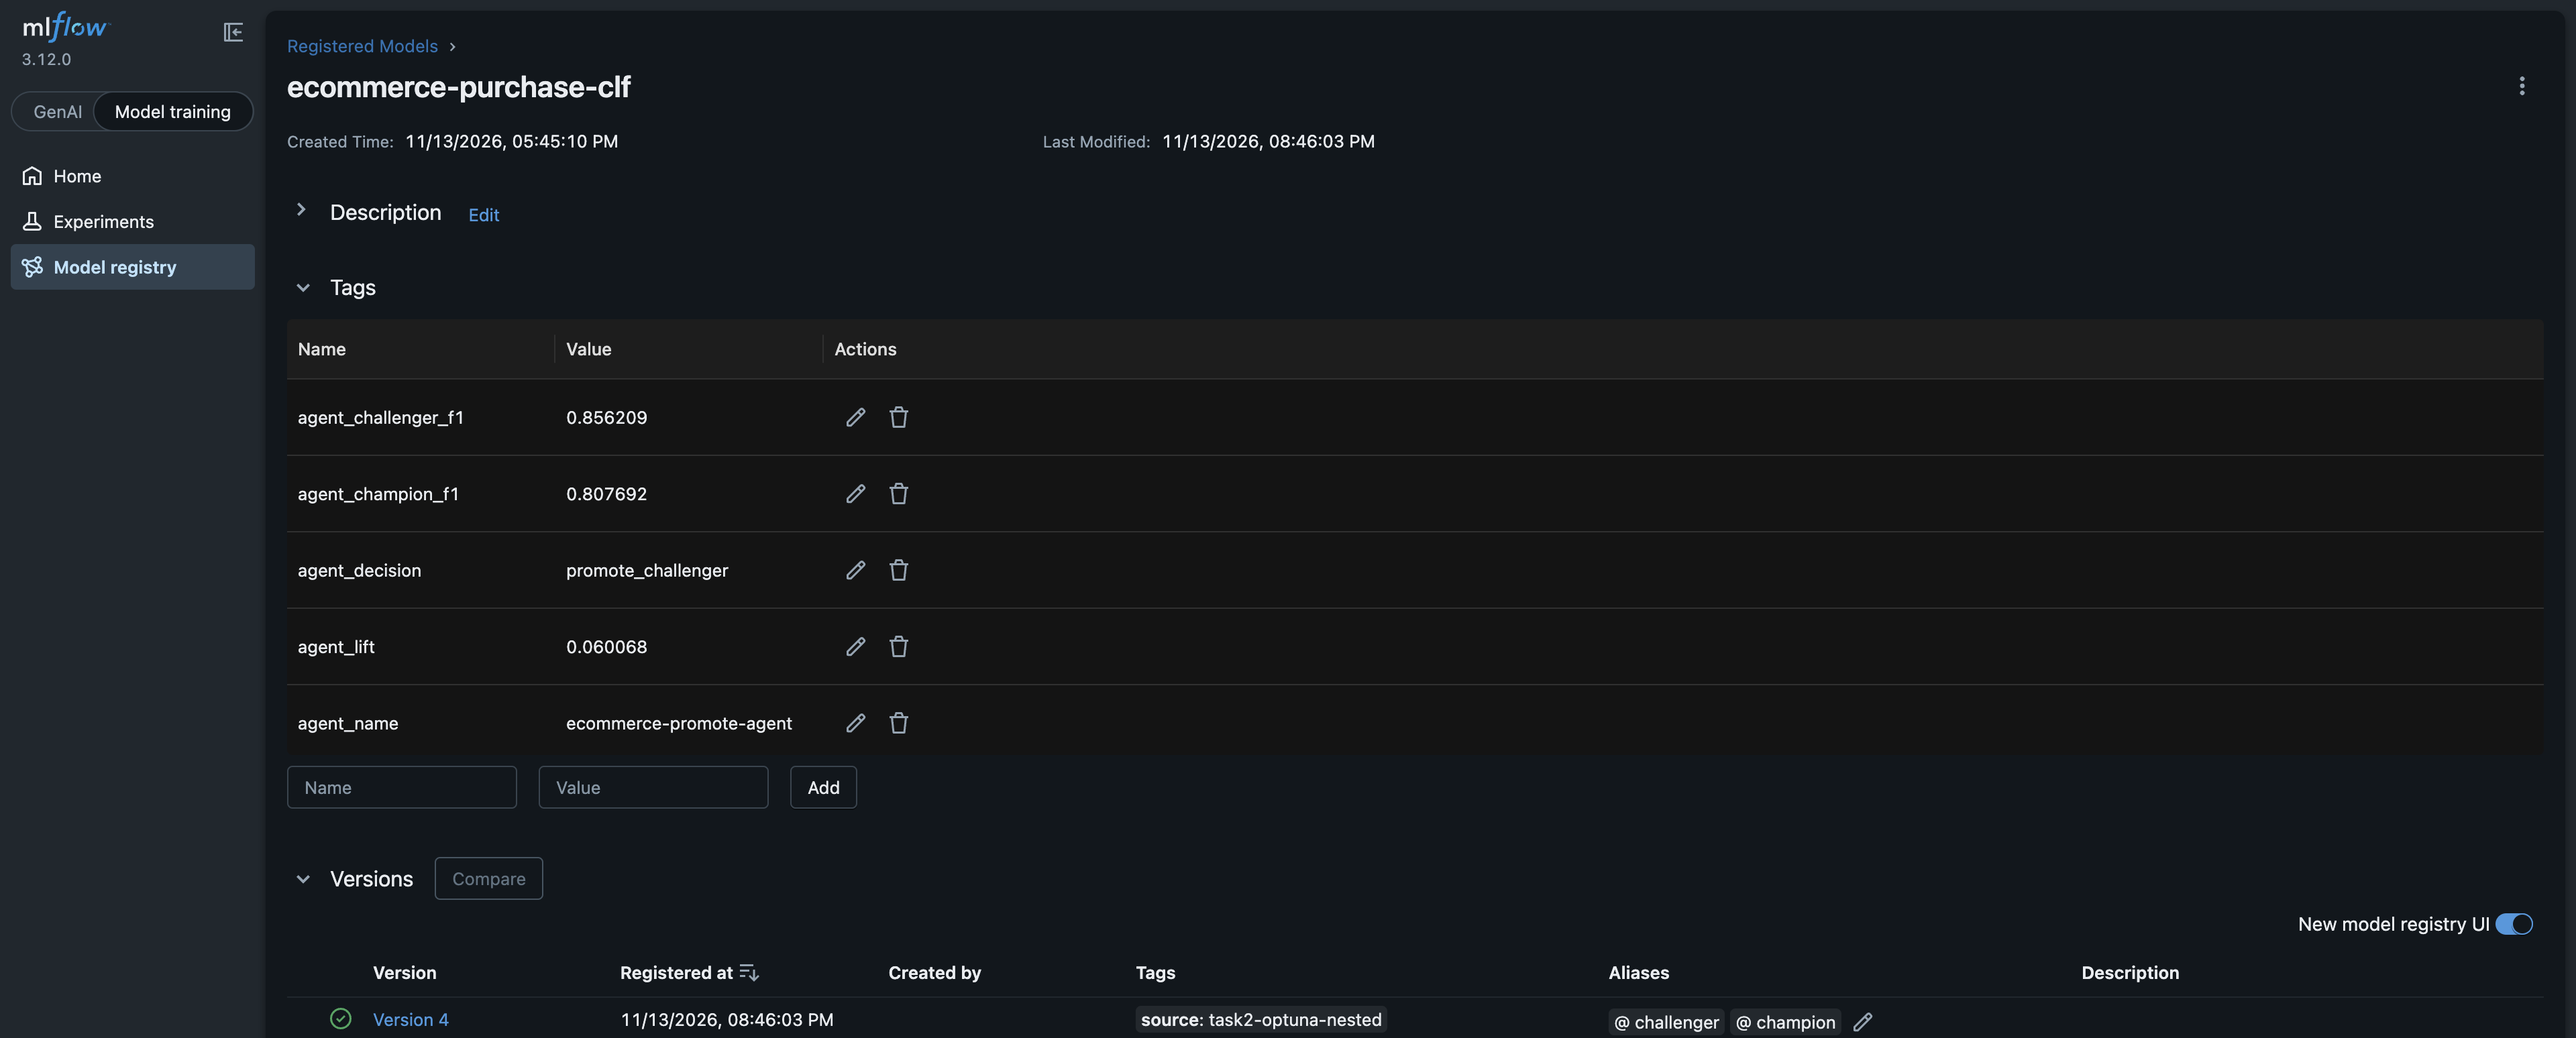
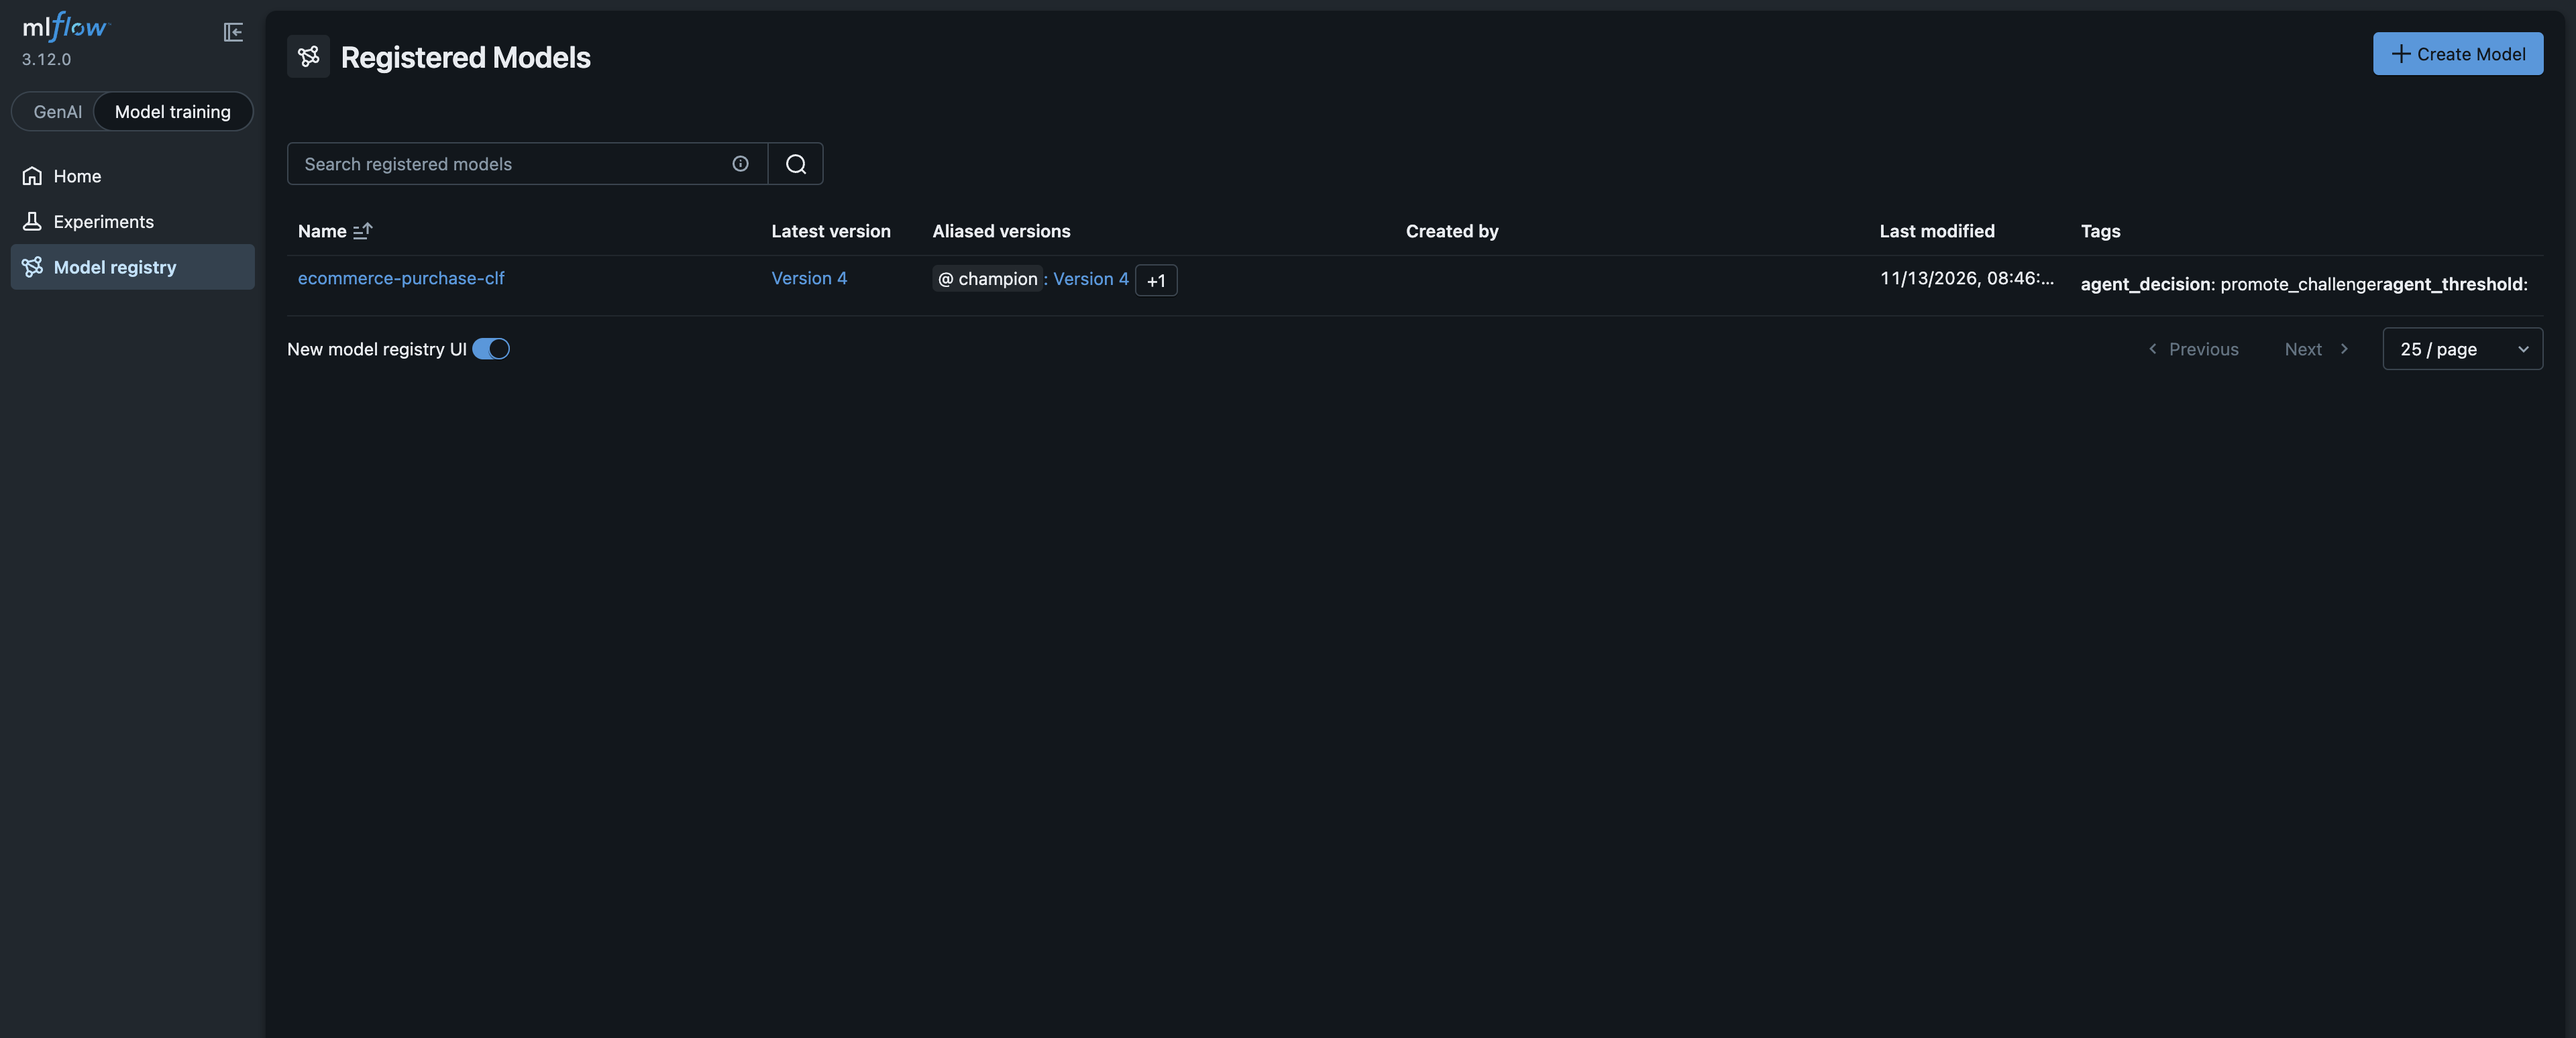
Use distinct registry vs agent-tag screenshots and English README.

diff --git a/README.md b/README.md
@@ -1,10 +1,11 @@
 # MLflow homework screenshots (ecommerce-start)
 
-Живой UI: Docker MLflow на kvm8, порт **5002**.
+Live UI: Docker MLflow on kvm8, port **5002**.
 
-- `01-runs.png` — эксперимент `ecommerce-purchase` (Task 1 + GridSearch)
-- `02-registry.png` / `03-agent-tags.png` — v4 `@champion` + `@challenger`, `agent_decision=promote_challenger`, lift **6.01%** (>5%)
-- `04-gridsearch.png` — nested Optuna `trial_0…7`, `best_f1_score=0.8562`
-- `05-confusion-matrix.png` — confusion matrix Task 1 (лучший baseline `lr=0.25`)
+- `01-runs.png` — experiment `ecommerce-purchase` (Task 1 + GridSearch)
+- `02-registry.png` — model registry list: `ecommerce-purchase-clf` aliases `@champion` / `@challenger`
+- `03-agent-tags.png` — agent tags: `promote_challenger`, F1 lift **6.01%** (>5%)
+- `04-gridsearch.png` — nested Optuna `trial_0`…`trial_7`, `best_f1_score=0.8562`
+- `05-confusion-matrix.png` — Task 1 confusion matrix (best baseline `lr=0.25`)
 
-Код: https://github.com/Leonid328/ecommerce-mlflow-hw
+Code: https://github.com/Leonid328/ecommerce-mlflow-hw
